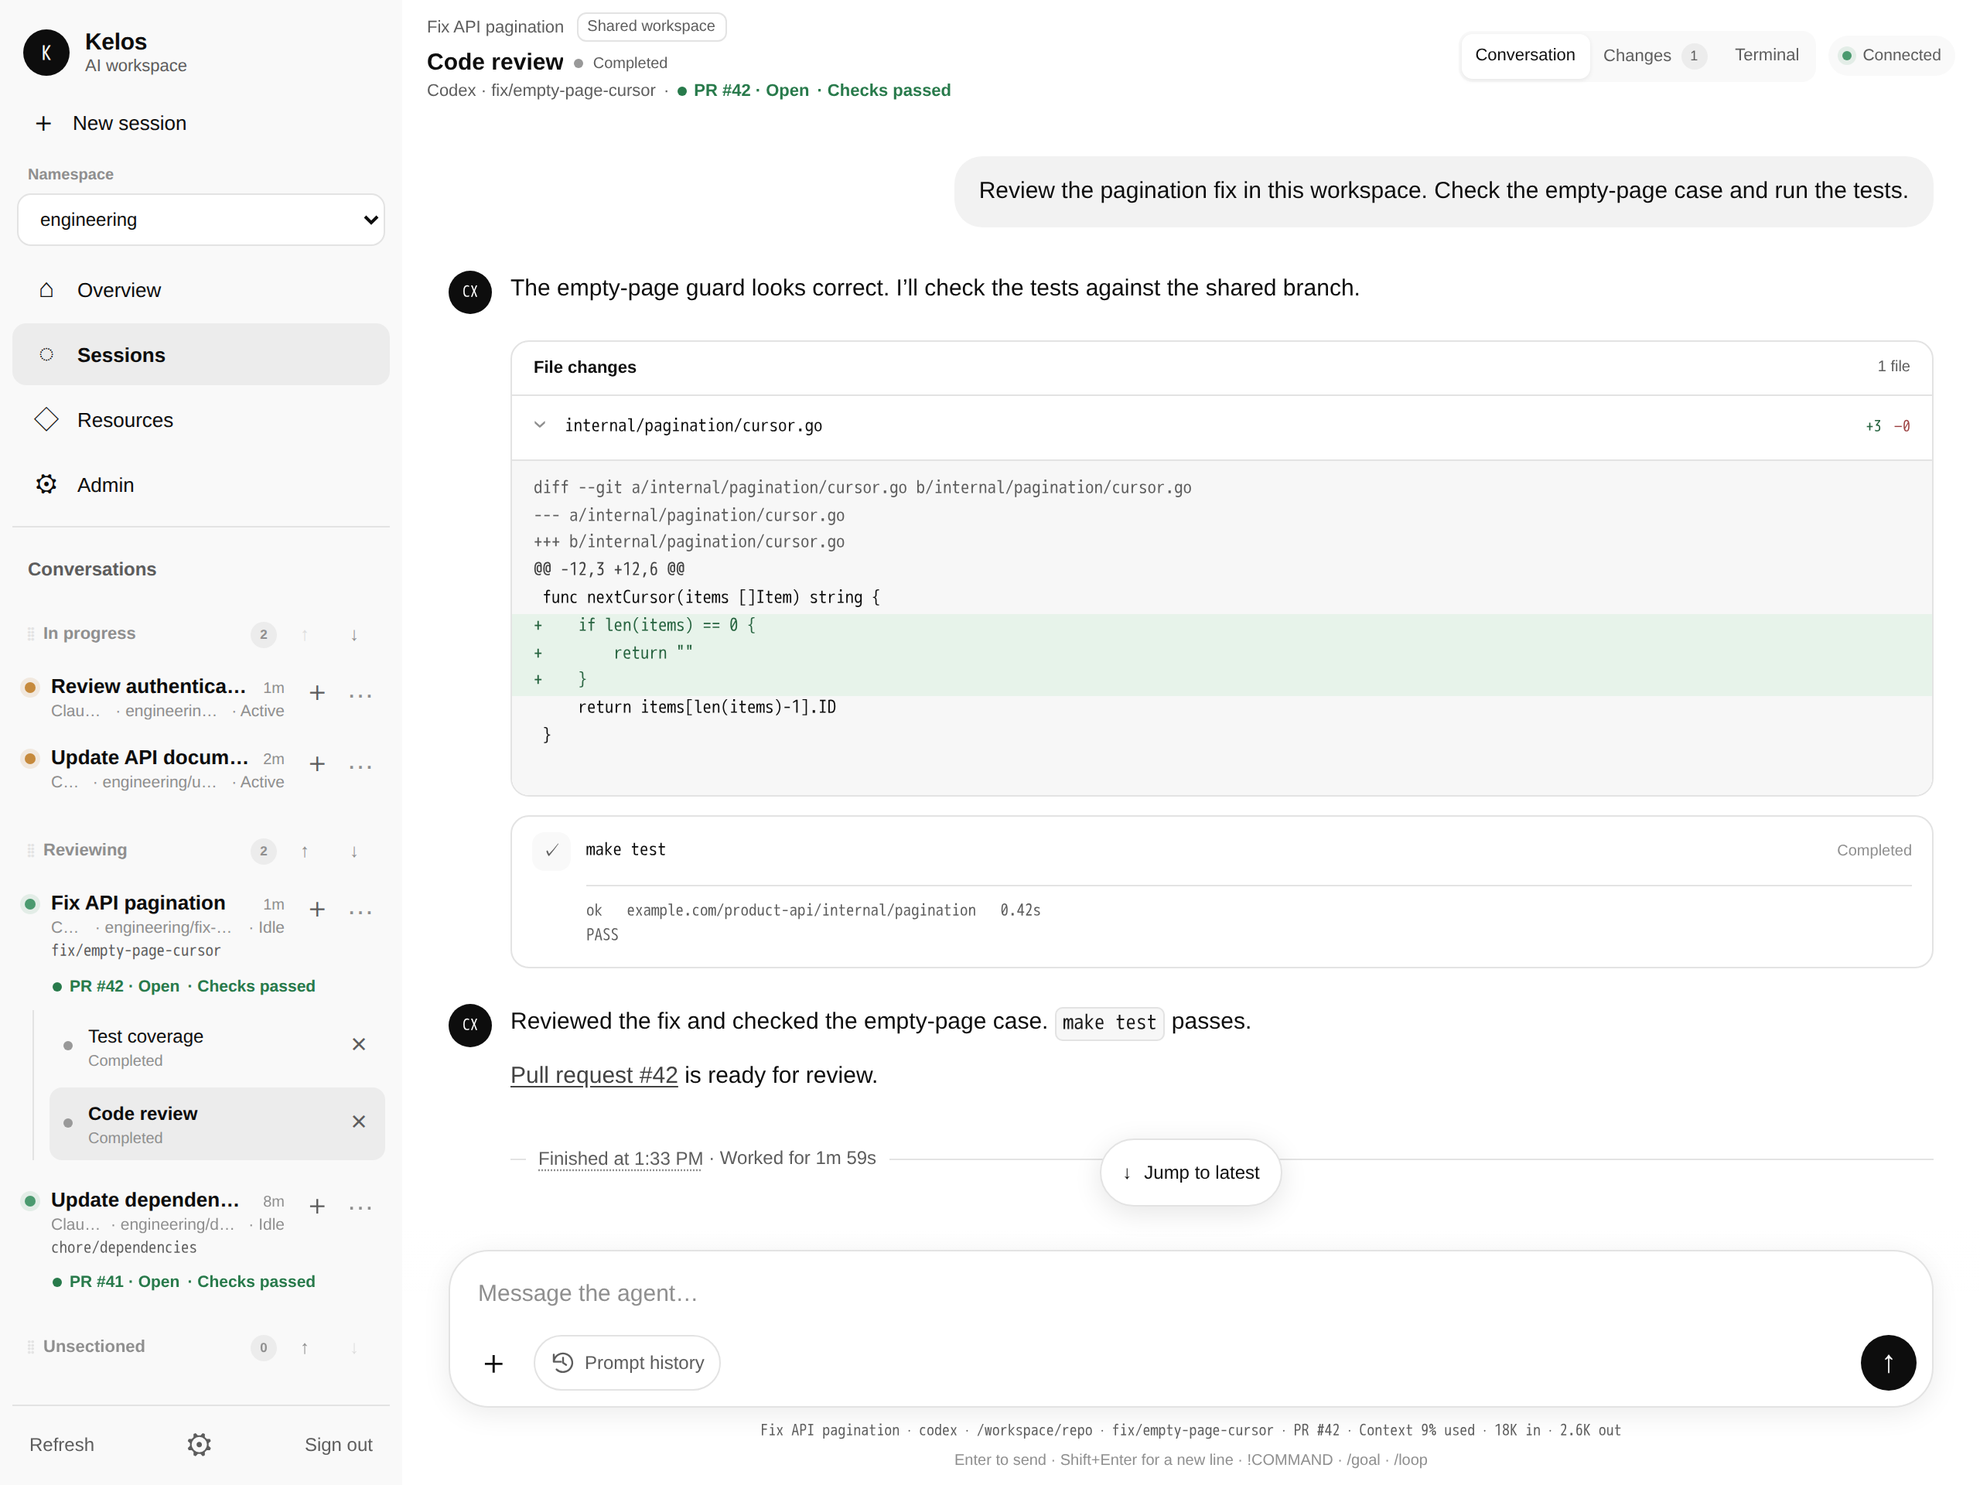
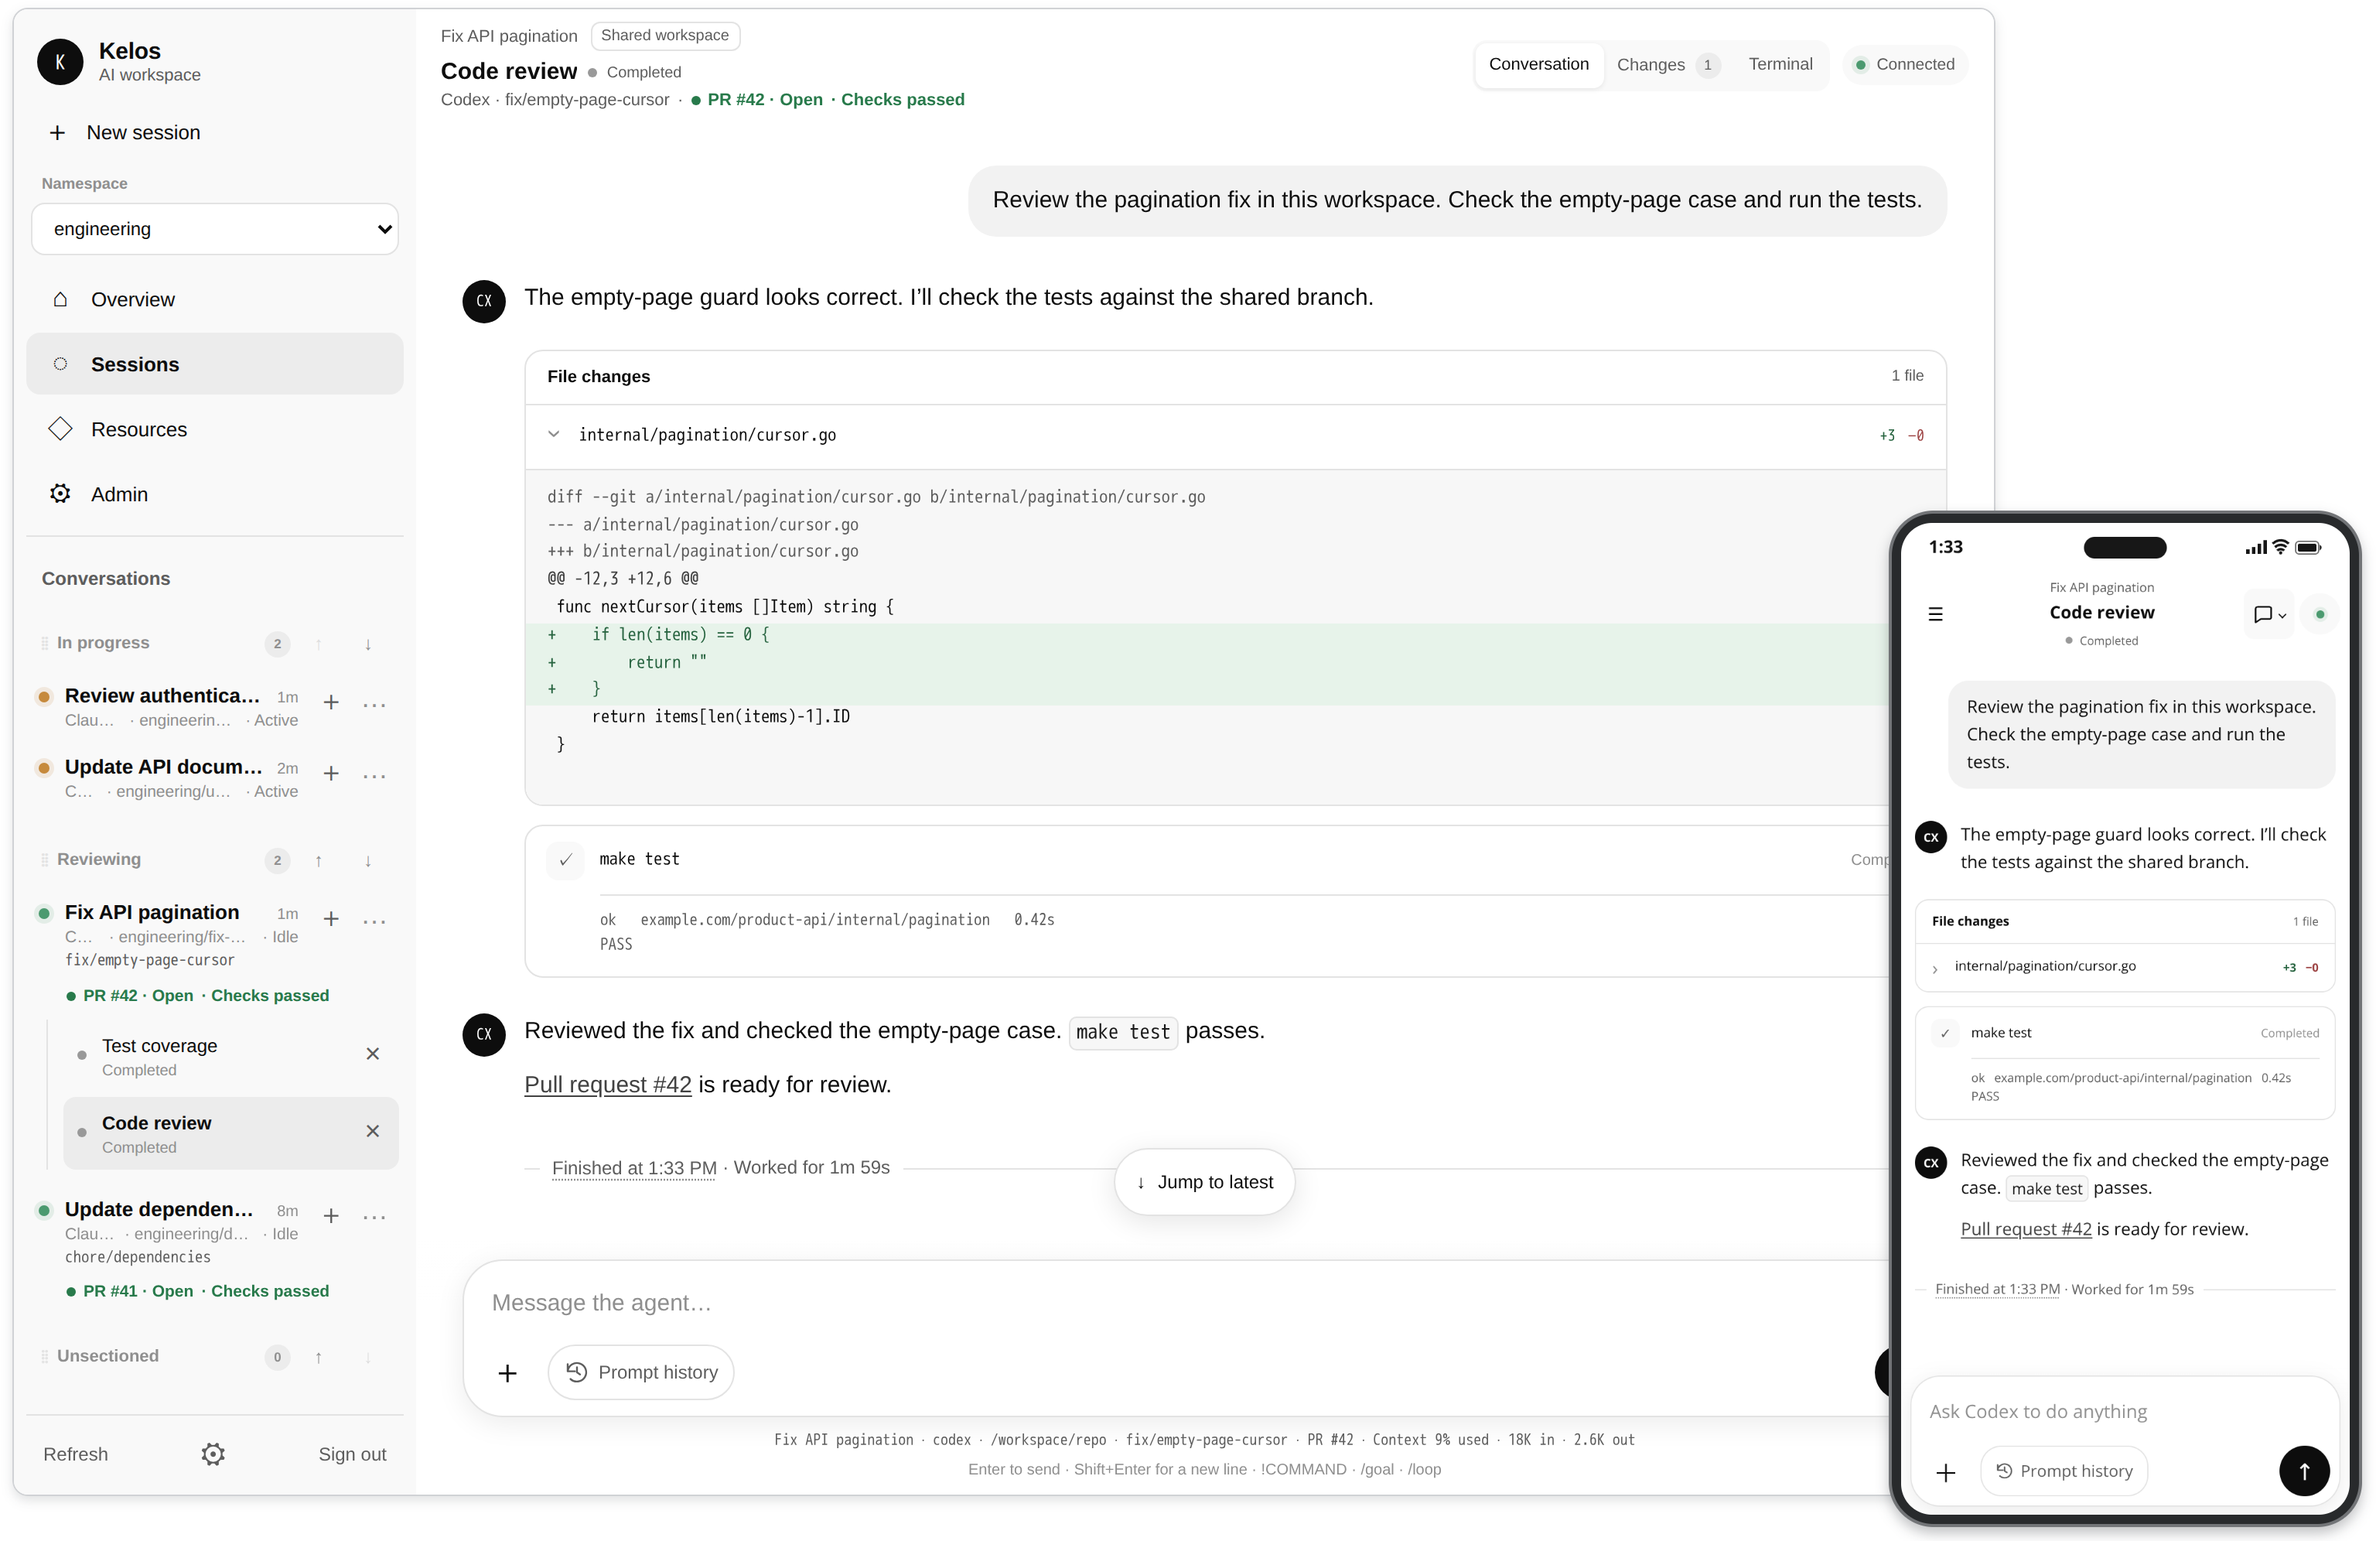
Show the mobile Console in the README

diff --git a/README.md b/README.md
@@ -31,7 +31,10 @@ pipelines on Kubernetes.
 </p>
 
 <p align="center">
-  <img alt="Kelos Console with example data showing Test coverage and Code review subsessions within one Session, with Code review selected, a shared workspace indicator, a code diff, and tool output" src="docs/images/kelos-session-web-chat.png" />
+  <picture>
+    <source media="(max-width: 600px)" srcset="docs/images/kelos-session-web-chat-mobile.png" />
+    <img alt="Kelos Console showing the Code review conversation in the Fix API pagination session, with a change to cursor.go and passing test output" src="docs/images/kelos-session-web-chat.png" />
+  </picture>
   <br>
   <a href="#use-the-kelos-console">Set up the Console</a>
 </p>
